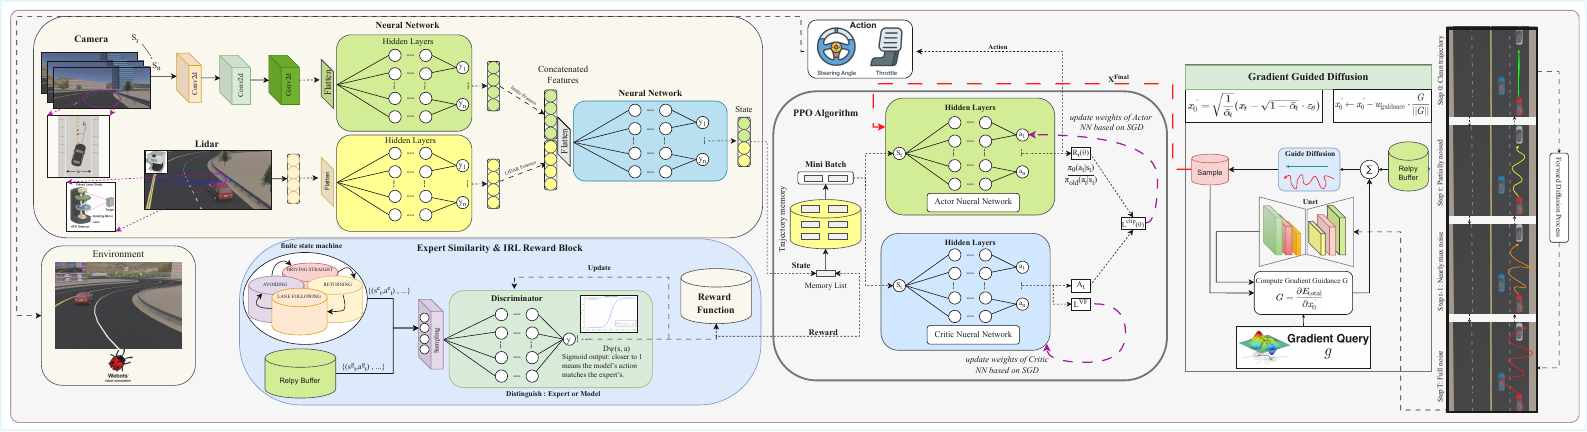
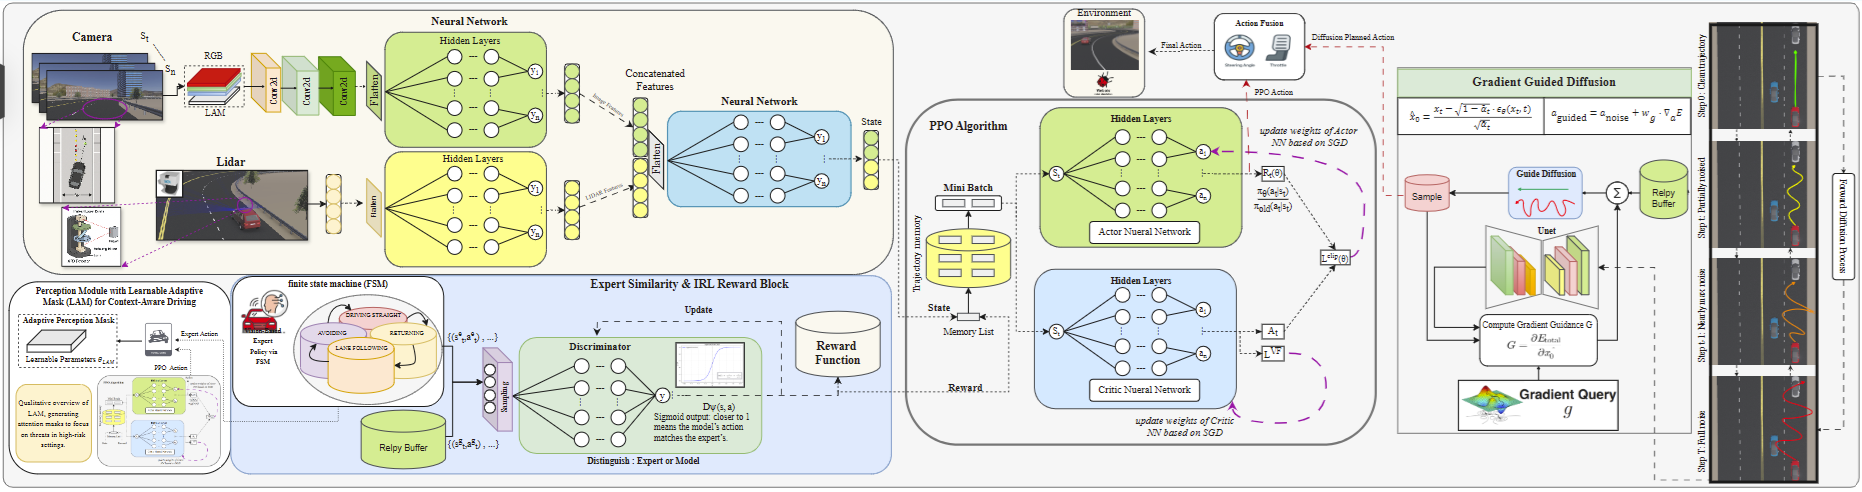
update pic and text

diff --git a/docs/index.html b/docs/index.html
@@ -93,6 +93,12 @@
     .table.is-selected {
       background-color: #f0f8ff;
     }
+
+    /* Highlight selected row text */
+    .table.is-selected, 
+    .table.is-selected td {
+        color: #000; 
+    }
     
     .image.is-fullwidth {
       width: 100%;
@@ -151,6 +157,13 @@
       transform: scale(1.03);
       box-shadow: 0 8px 24px rgba(0, 0, 0, 0.2);
     }
+
+    /* Helper for red percentage text */
+    .pct-improve {
+        color: #cc0000;
+        font-size: 0.9em;
+        margin-left: 4px;
+    }
   </style>
 </head>
 
@@ -191,21 +204,33 @@
             <h1 class="title is-1 publication-title">
               IRL-DAL: Safe and Adaptive Trajectory Planning for Autonomous Driving via Energy-Guided Diffusion Models
             </h1>
-            
+                        
             <div class="is-size-5 publication-authors">
               <span class="author-block">
-                <a href="https://aut.ac.ir">Seyed Ahmad Hosseini Miangoleh</a><sup>1</sup>,
+                <a href="https://orcid.org/0009-0007-6572-6688" target="_blank">
+                  Seyed Ahmad Hosseini Miangoleh
+                </a><sup>1</sup>,
               </span>
+
               <span class="author-block">
-                <a href="https://aut.ac.ir">Farzaneh Abdollahi</a><sup>1</sup>
+                <a href="https://orcid.org/0009-0003-8482-1219" target="_blank">
+                  Amin Jalal Aghdasian
+                </a><sup>1</sup>,
               </span>
+
+              <span class="author-block">
+                <a href="https://orcid.org/0000-0003-4957-987X" target="_blank">
+                  Farzaneh Abdollahi
+                </a><sup>1</sup>
+              </span>
+
+              <div class="affiliation is-size-5">
+                <span class="author-affiliation">
+                  <sup>1</sup>Department of Electrical Engineering, Amirkabir University of Technology (Tehran Polytechnic), Tehran, Iran
+                </span>
+              </div>
             </div>
 
-            <div class="is-size-5 publication-authors">
-              <span class="author-block">
-                <sup>1</sup>Department of Electrical Engineering, Amirkabir University of Technology (Tehran Polytechnic), Tehran, Iran
-              </span>
-            </div>
 
             <div class="publication-links">
               <span class="link-block">
@@ -294,55 +319,70 @@
         <div class="column is-full">
           <h2 class="title is-3 has-text-centered">Performance Comparison</h2>
           <div class="paper-table">
-            <table class="table is-bordered is-fullwidth">
+            <table class="table is-bordered is-fullwidth is-hoverable">
               <thead>
                 <tr>
-                  <th>Model</th>
-                  <th>Mean Reward ↑</th>
-                  <th>Collisions/1k Steps ↓</th>
-                  <th>Success Rate (%) ↑</th>
-                  <th>BC Loss ↓</th>
-                  <th>Action Sim. (%) ↑</th>
+                  <th class="has-text-centered">Model</th>
+                  <th class="has-text-centered">Mean Reward &uarr;</th>
+                  <th class="has-text-centered">Coll./1k Steps &darr;</th>
+                  <th class="has-text-centered">Success (%) &uarr;</th>
+                  <th class="has-text-centered">BC Loss (&times;10<sup>-2</sup>) &darr;</th>
+                  <th class="has-text-centered">Action Sim. (%) &uarr;</th>
+                  <th class="has-text-centered">ADE (m) &darr;</th>
+                  <th class="has-text-centered">FDE (m) &darr;</th>
                 </tr>
               </thead>
-              <tbody>
+              <tbody class="has-text-centered">
                 <tr>
-                  <td>Baseline (PPO + Uniform)</td>
-                  <td>85</td>
-                  <td>0.63</td>
-                  <td>78</td>
-                  <td>17.1</td>
-                  <td>~65</td>
+                  <td class="has-text-left">PPO + Uniform Sampling</td>
+                  <td>85.2 &plusmn; 4.1</td>
+                  <td>0.63 &plusmn; 0.12</td>
+                  <td>78.1 &plusmn; 3.2</td>
+                  <td>17.1 &plusmn; 1.4</td>
+                  <td>65.3 &plusmn; 4.1</td>
+                  <td>5.25 &plusmn; 0.31</td>
+                  <td>11.8 &plusmn; 0.65</td>
                 </tr>
                 <tr>
-                  <td>Structured Replay</td>
-                  <td>120 (+41%)</td>
-                  <td>0.30</td>
-                  <td>88</td>
-                  <td>12.3</td>
-                  <td>~75</td>
+                  <td class="has-text-left">+ FSM Replay</td>
+                  <td>120.4 &plusmn; 3.8 <span class="pct-improve">(+41%)</span></td>
+                  <td>0.30 &plusmn; 0.08</td>
+                  <td>88.4 &plusmn; 2.1</td>
+                  <td>12.3 &plusmn; 1.1</td>
+                  <td>75.1 &plusmn; 3.5</td>
+                  <td>4.10 &plusmn; 0.27</td>
+                  <td>9.5 &plusmn; 0.58</td>
                 </tr>
                 <tr>
-                  <td>Generative Planner</td>
-                  <td>155 (+29%)</td>
-                  <td>0.15</td>
-                  <td>92</td>
-                  <td>13.0</td>
-                  <td>~80</td>
+                  <td class="has-text-left">+ Diffusion Planner</td>
+                  <td>155.1 &plusmn; 3.2 <span class="pct-improve">(+29%)</span></td>
+                  <td>0.15 &plusmn; 0.05</td>
+                  <td>92.0 &plusmn; 1.8</td>
+                  <td>13.0 &plusmn; 1.0</td>
+                  <td>80.2 &plusmn; 3.0</td>
+                  <td>3.15 &plusmn; 0.22</td>
+                  <td>7.2 &plusmn; 0.49</td>
                 </tr>
-                <tr class="is-selected">
-                  <td><strong>IRL-DAL (Full)</strong></td>
-                  <td><strong>180 (+16%)</strong></td>
-                  <td><strong>0.05</strong></td>
-                  <td><strong>96</strong></td>
-                  <td><strong>7.4</strong></td>
-                  <td><strong>~85</strong></td>
+                <tr class="is-selected" style="font-weight: bold;">
+                  <td class="has-text-left">+ LAM + SAEC (Ours)</td>
+                  <td>180.7 &plusmn; 2.9 <span class="pct-improve">(+16%)</span></td>
+                  <td>0.05 &plusmn; 0.03</td>
+                  <td>96.3 &plusmn; 1.2</td>
+                  <td>7.4 &plusmn; 0.8</td>
+                  <td>85.7 &plusmn; 2.4</td>
+                  <td>2.45 &plusmn; 0.18</td>
+                  <td>5.1 &plusmn; 0.41</td>
                 </tr>
               </tbody>
             </table>
+            <p class="is-size-7 has-text-grey has-text-centered mt-3">
+              Quantitative performance across architectural variants (10 seeds, mean &plusmn; std). Mean reward normalized to [0, 200]. 
+              Trajectory prediction metrics (ADE/FDE) from rollout evaluation. Arrows indicate improvement direction; <strong>bold</strong> denotes best.
+            </p>
           </div>
         </div>
       </div>
+
 <!-- Key Components Section -->
 <section class="section">
   <div class="container is-max-desktop">
@@ -381,7 +421,7 @@
           <h2 class="title is-3 has-text-centered">Learnable Adaptive Mask (LAM)</h2>
           <div class="content has-text-justified">
             <p>
-              The Learnable Adaptive Mask (LAM) is a state-aware perception module designed for intelligent allocation of visual attention. It dynamically adjusts the agent's perceptual focus based on real-time driving context. At high speeds, it expands the mask to prioritize the <strong>distant horizon</strong>, enabling effective long-term planning. Conversely, when LiDAR detects nearby hazards or in dense traffic, LAM constricts the focus to the <strong>near-field</strong>, concentrating computational resources on immediate threats for precise, reactive maneuvers.
+              The Learnable Adaptive Mask (LAM) is a state-aware perception module designed for intelligent allocation of visual attention. It dynamically adjusts the agent's perceptual focus based on real-time driving context. At high speeds, rather than expanding to the horizon, LAM actively <strong>amplifies the lower visual field</strong> (near-field road features) to ensure precise lane tracking and lateral stability. Conversely, when LiDAR detects nearby hazards or in dense traffic, the mask intensifies focus on the immediate surroundings to facilitate rapid collision avoidance, offering an interpretable and efficient alternative to heavy self-attention layers.
             </p>
           </div>
           <img src="attention.png" alt="Learnable Adaptive Mask Visualization" class="image is-fullwidth">
@@ -402,7 +442,7 @@
                 <strong>Diffusion Planning as a Corrective Safety Layer:</strong> The first application of a conditional diffusion model as an on-demand, corrective safety planner for an active RL agent, ensuring safety compliance without stifling the policy's learning and exploration process.
               </li>
               <li>
-                <strong>State-Guided Adaptive Perception:</strong> A lightweight and effective attention mechanism (LAM) that modulates perceptual focus based on explicit contextual variables like vehicle speed and LiDAR-based hazard levels, enabling efficient and context-appropriate visual processing.
+                <strong>State-Guided Adaptive Perception:</strong> A lightweight and interpretable attention mechanism (LAM) that dynamically modulates feature extraction. It prioritizes <strong>near-field lane coherence</strong> during high-speed driving for lateral stability and highlights proximate surroundings when hazards are detected, ensuring efficient and context-aware visual processing.
               </li>
               <li>
                 <strong>Safety-Aware Experience Correction (SAEC):</strong> A novel feedback loop where interventions from the safety planner are not discarded but are distilled into structured learning experiences. This allows the RL policy to learn directly from its near-failures, progressively enhancing its intrinsic safety.
